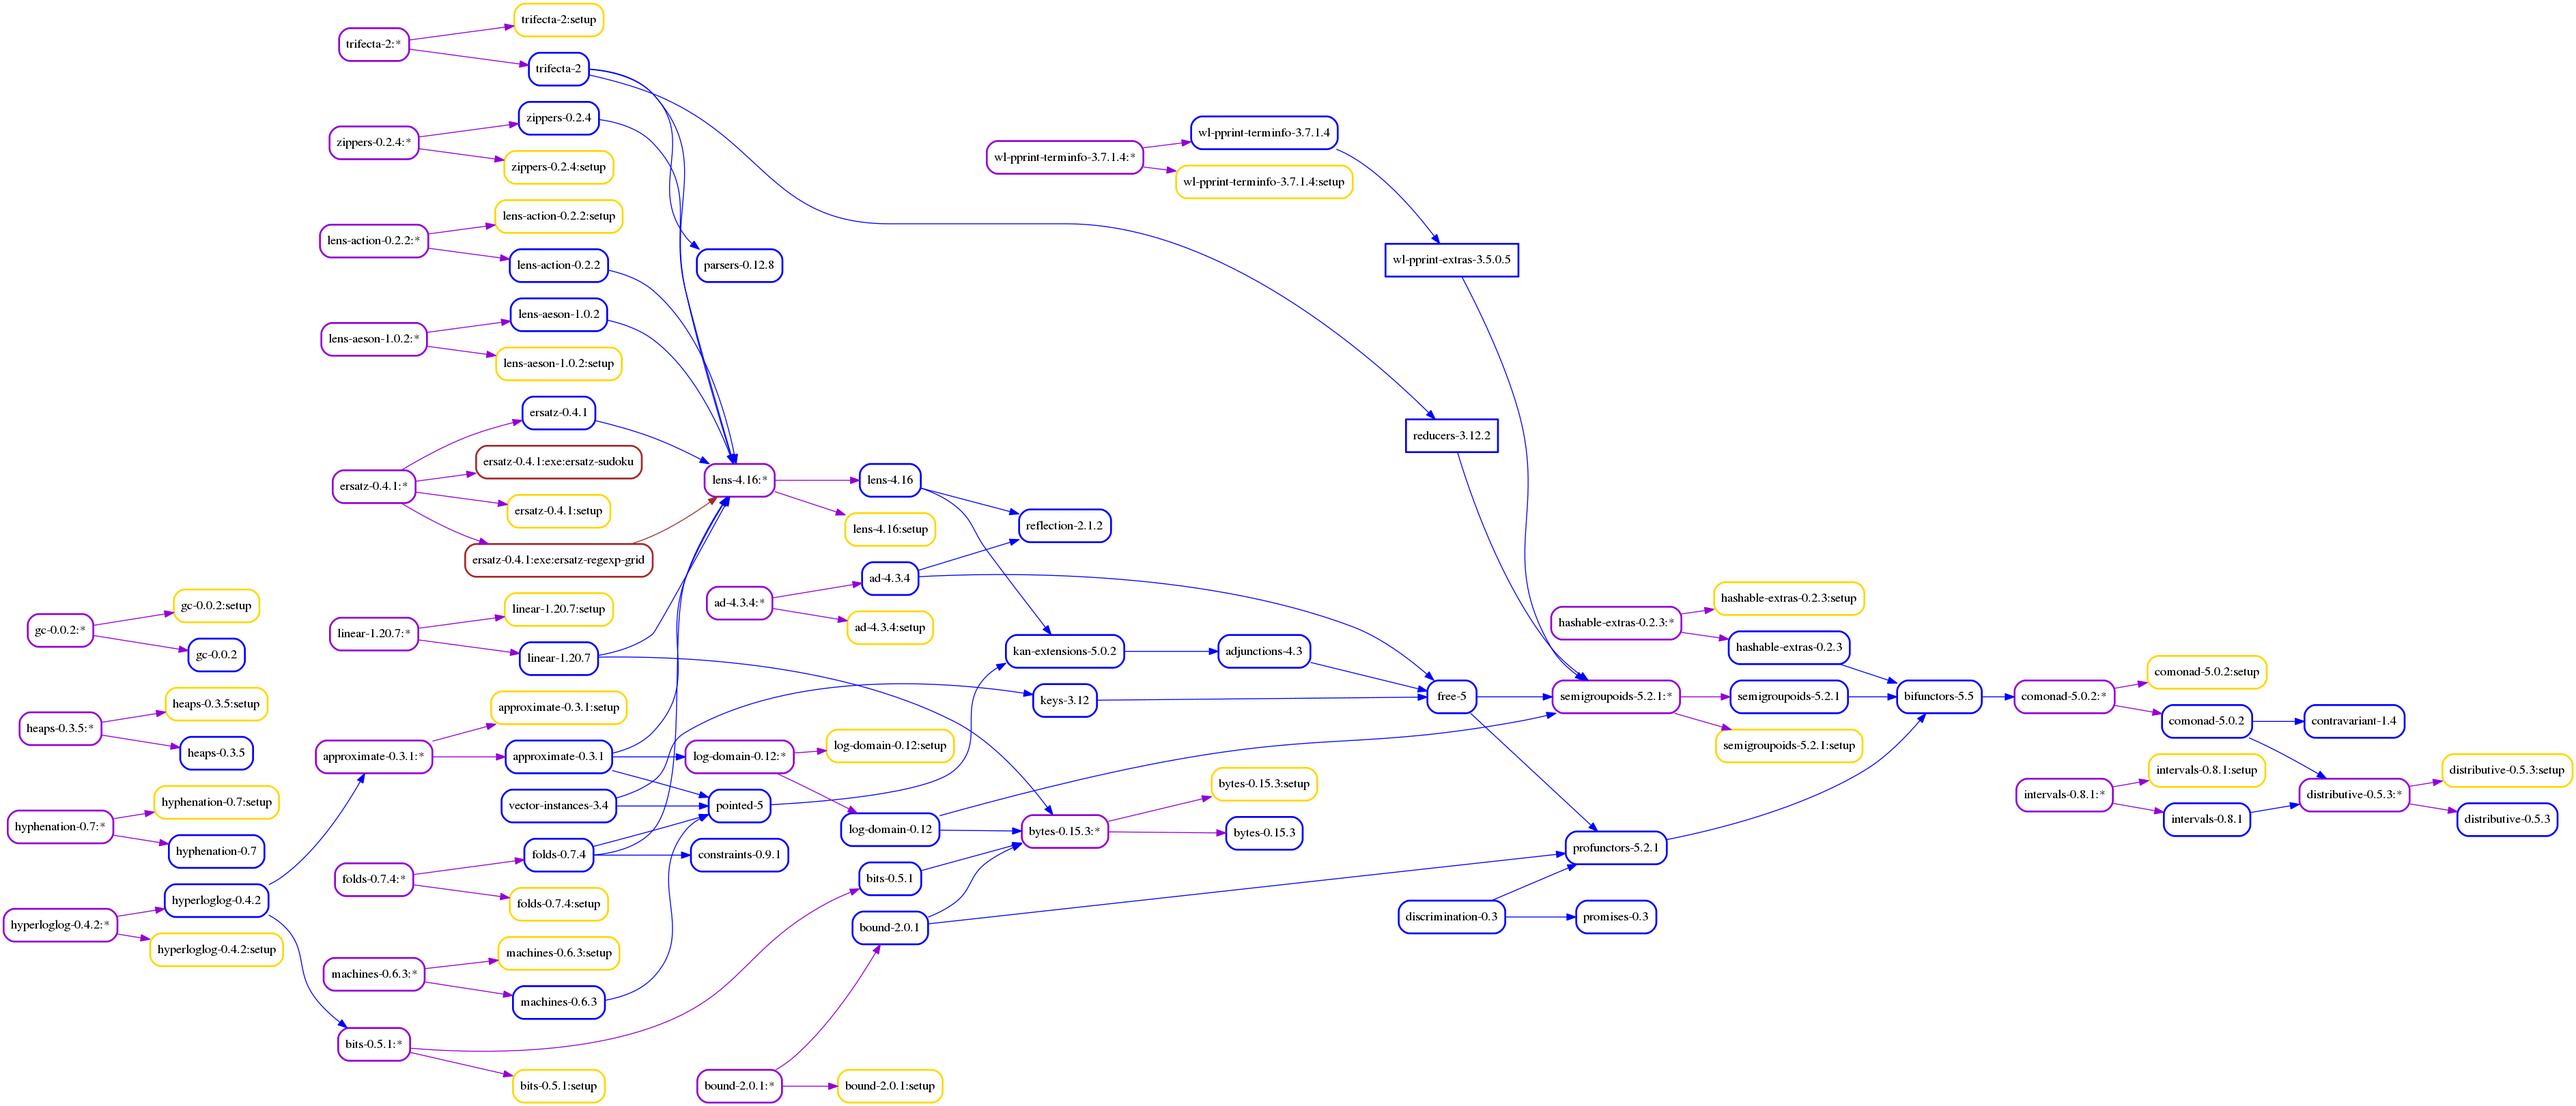
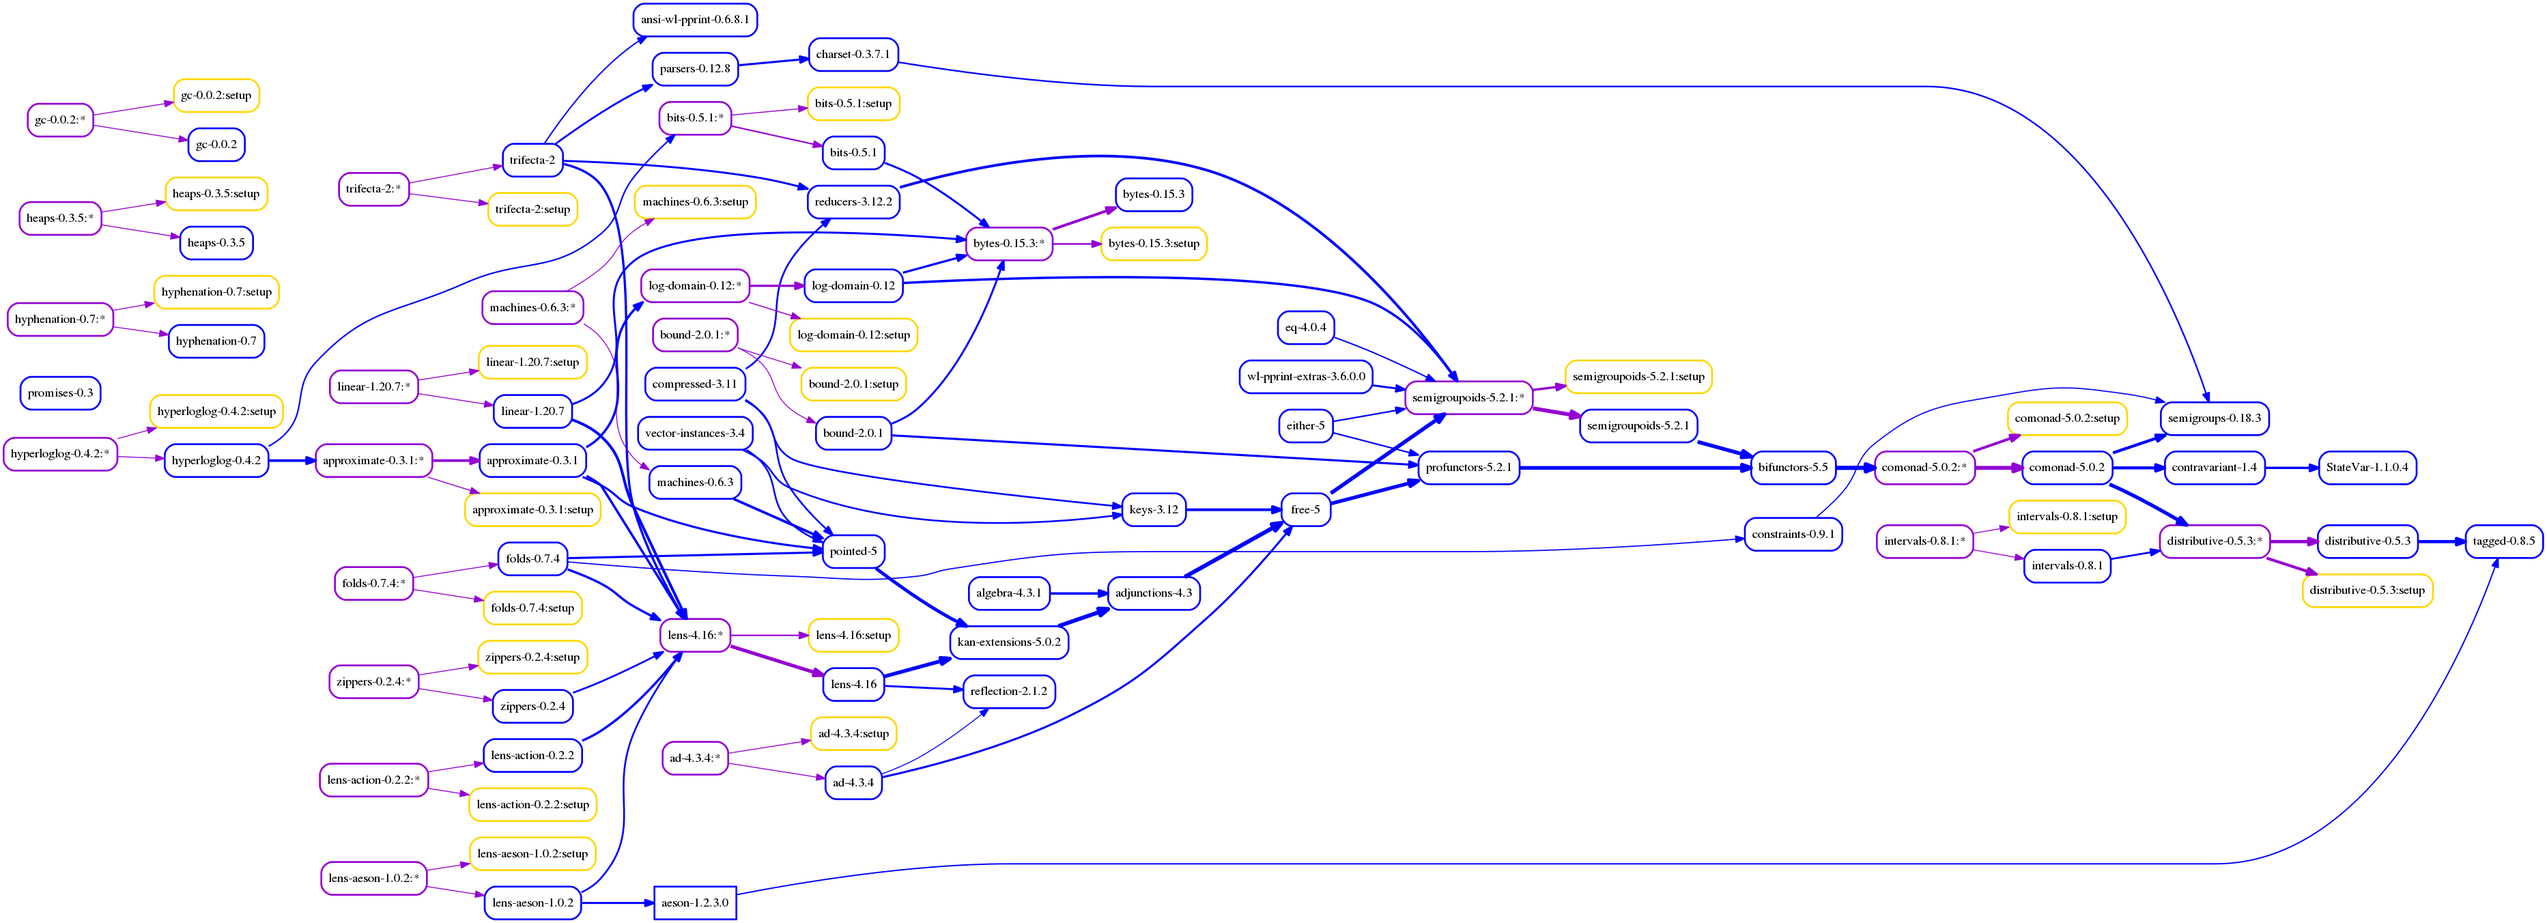
More packages

diff --git a/README.md b/README.md
@@ -7,7 +7,19 @@ git clone --recursive ...
 cabal new-build
 ```
 
+## Dependency graphs
+
+### GHC-8.2.2
+
+*Note:* aeson the only inplace dependency:
+
 ![deps](https://raw.githubusercontent.com/phadej/acme-kmett/master/deps.png)
+
+### GHC-7.8.4
+
+*Note:* without `discrimination` and `ersatz`
+
+![deps-7.8](https://raw.githubusercontent.com/phadej/acme-kmett/master/deps-7.8.png)
 
 ## Spells
 
@@ -15,11 +27,4 @@ cabal new-build
 
 ```bash
 packdeps */*.cabal
-```
-
-### run all doctests
-
-```bash
-cabal new-build --enable-tests --disable-benchmarks
-for exe in $(find dist-newstyle -type f -name doctests | sort); do echo '=====' $exe; $exe || echo '===== FAIL!'; done
 ```
